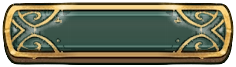
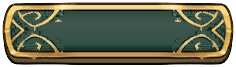
Workshop v36: button hover art cleaned (flat panel, no see-through pixels), parchment hover text without halo, no tap highlight, cache v36
Claude-Session: https://claude.ai/code/session_01DVG5f7VBQkdwappbx1RNPL

diff --git a/concepts/core/core.css b/concepts/core/core.css
@@ -294,7 +294,7 @@ body[data-theme=workshop] .hot.cut .wtag text{font-size:12px;fill:#3a2616}
 body[data-theme=workshop]{--kit-cream:#efe1bc}
 body[data-theme=workshop] .pf-frame{
   width:min(1120px,100%);height:min(800px,100%);
-  border:46px solid transparent;border-image:url(../ui/frame.png?v=34) 95 / 46px stretch;
+  border:46px solid transparent;border-image:url(../ui/frame.png?v=36) 95 / 46px stretch;
   border-radius:0;background:var(--kit-cream);background-clip:padding-box;
   box-shadow:none;filter:none;animation:pop .25s cubic-bezier(.2,.9,.3,1.2)}
 /* static shadow (a CSS filter on this big, scrolling element made every frame slow) */
@@ -304,44 +304,44 @@ body[data-theme=workshop] .pf-frame:before,body[data-theme=workshop] .pf-frame .
 body[data-theme=workshop] .pf-head{position:absolute;top:0;left:0;right:0;height:0;padding:0;display:block;z-index:5}
 body[data-theme=workshop] .pf-head .ttl{position:absolute;left:50%;top:-74px;transform:translateX(-50%);width:min(80%,640px);height:64px;
   display:flex;align-items:center;justify-content:center;text-align:center;box-sizing:border-box;padding:0 4px;
-  border:0 solid transparent;border-width:0 44px;border-image:url(../ui/plaque.png?v=34) 0 82 0 82 fill / 0 44px 0 44px stretch}
+  border:0 solid transparent;border-width:0 44px;border-image:url(../ui/plaque.png?v=36) 0 82 0 82 fill / 0 44px 0 44px stretch}
 body[data-theme=workshop] .pf-head small{display:none}
 body[data-theme=workshop] .pf-head h2{margin:0;color:#f6ead0;font:700 clamp(19px,2.3vw,26px)/1 var(--head);letter-spacing:.04em;text-shadow:0 2px 0 #1b110a,0 0 12px rgba(0,0,0,.5)}
 body[data-theme=workshop] .pf-head .pf-icon{display:none}
 body[data-theme=workshop] .pf-x{position:absolute;top:-40px;right:-14px;width:50px;height:50px;border:0;border-radius:0;padding:0;
-  background:url(../ui/close.png?v=34) center/contain no-repeat;font-size:0;color:transparent;filter:drop-shadow(0 3px 3px rgba(0,0,0,.5))}
-body[data-theme=workshop] .pf-x:hover,body[data-theme=workshop] .pf-x:focus-visible{background:url(../ui/close-hot.png?v=34) center/contain no-repeat;outline:none}
+  background:url(../ui/close.png?v=36) center/contain no-repeat;font-size:0;color:transparent;filter:drop-shadow(0 3px 3px rgba(0,0,0,.5))}
+body[data-theme=workshop] .pf-x:hover,body[data-theme=workshop] .pf-x:focus-visible{background:url(../ui/close-hot.png?v=36) center/contain no-repeat;outline:none}
 body[data-theme=workshop] .pf-body{padding:16px 24px 18px;margin-top:-2px}
 body[data-theme=workshop] .pf-foot{border-top:0;padding:20px 24px 6px;position:relative}
 body[data-theme=workshop] .pf-foot:before{content:"";position:absolute;left:24px;right:24px;top:4px;height:14px;
-  background:url(../ui/div-l.png?v=34) left center/calc(50% - 22px) 14px no-repeat,url(../ui/div-r.png?v=34) right center/calc(50% - 22px) 14px no-repeat,url(../ui/div-m.png?v=34) center/auto 14px no-repeat}
+  background:url(../ui/div-l.png?v=36) left center/calc(50% - 22px) 14px no-repeat,url(../ui/div-r.png?v=36) right center/calc(50% - 22px) 14px no-repeat,url(../ui/div-m.png?v=36) center/auto 14px no-repeat}
 /* items separated by the ornamental divider instead of tabs */
 body[data-theme=workshop] .pf-item+.pf-item{border-top:0;padding-top:50px;position:relative}
 body[data-theme=workshop] .pf-item+.pf-item:before{content:"";position:absolute;left:0;right:0;top:10px;height:26px;
-  background:url(../ui/div-l.png?v=34) left center/calc(50% - 40px) 26px no-repeat,url(../ui/div-r.png?v=34) right center/calc(50% - 40px) 26px no-repeat,url(../ui/div-m.png?v=34) center/auto 26px no-repeat}
+  background:url(../ui/div-l.png?v=36) left center/calc(50% - 40px) 26px no-repeat,url(../ui/div-r.png?v=36) right center/calc(50% - 40px) 26px no-repeat,url(../ui/div-m.png?v=36) center/auto 26px no-repeat}
 body[data-theme=workshop] .pf-ih{margin-bottom:6px}
 body[data-theme=workshop] .pf-it{color:#2a1a0e}
 /* badges, buttons */
-body[data-theme=workshop] .pf-badge{border:0;border-radius:0;background:none;color:#f6ead0;padding:5px 14px;border:7px solid transparent;border-image:url(../ui/btn.png?v=34) 26 30 fill / 9px 11px stretch;font-size:11px;line-height:1;text-shadow:0 1px 0 rgba(0,0,0,.5)}
-body[data-theme=workshop] .pf-badge.ghost{color:#2f6b57;text-shadow:none;border-image:url(../ui/chip.png?v=34) 22 30 fill / 8px 12px stretch}
+body[data-theme=workshop] .pf-badge{border:0;border-radius:0;background:none;color:#f6ead0;padding:5px 14px;border:7px solid transparent;border-image:url(../ui/btn.png?v=36) 26 30 fill / 9px 11px stretch;font-size:11px;line-height:1;text-shadow:0 1px 0 rgba(0,0,0,.5)}
+body[data-theme=workshop] .pf-badge.ghost{color:#2f6b57;text-shadow:none;border-image:url(../ui/chip.png?v=36) 22 30 fill / 8px 12px stretch}
 body[data-theme=workshop] .pf-badges{gap:6px 4px}
-body[data-theme=workshop] .pf-btn{background:none;border:10px solid transparent;border-image:url(../ui/btn.png?v=34) 26 30 fill / 13px 16px stretch;border-radius:0;color:#f6ead0!important;padding:3px 10px;text-shadow:0 1px 0 rgba(0,0,0,.55);filter:none}
-body[data-theme=workshop] .pf-btn:hover,body[data-theme=workshop] .pf-btn:focus-visible{border-image:url(../ui/btn-hot.png?v=34) 26 64 fill / 13px 32px stretch;filter:none;outline:none}
-body[data-theme=workshop] .pf-btn.ghost{border-image:url(../ui/chip.png?v=34) 22 30 fill / 11px 15px stretch;color:#2f6b57!important;text-shadow:none}
-body[data-theme=workshop] .pf-btn.ghost:hover{border-image:url(../ui/btn-hot.png?v=34) 26 64 fill / 13px 32px stretch;color:#f6ead0!important}
+body[data-theme=workshop] .pf-btn{background:none;border:10px solid transparent;border-image:url(../ui/btn.png?v=36) 26 30 fill / 13px 16px stretch;border-radius:0;color:#f6ead0!important;padding:3px 10px;text-shadow:0 1px 0 rgba(0,0,0,.55);filter:none}
+body[data-theme=workshop] .pf-btn:hover,body[data-theme=workshop] .pf-btn:focus-visible{border-image:url(../ui/btn-hot.png?v=36) 26 64 fill / 13px 32px stretch;filter:none;outline:none}
+body[data-theme=workshop] .pf-btn.ghost{border-image:url(../ui/chip.png?v=36) 22 30 fill / 11px 15px stretch;color:#2f6b57!important;text-shadow:none}
+body[data-theme=workshop] .pf-btn.ghost:hover{border-image:url(../ui/btn-hot.png?v=36) 26 64 fill / 13px 32px stretch;color:#f6ead0!important}
 /* lists */
 body[data-theme=workshop] .pf-did ul,body[data-theme=workshop] .pf-body ul.pf-ul{list-style:none;padding-left:4px}
 body[data-theme=workshop] .pf-did li,body[data-theme=workshop] .pf-ul li{position:relative;padding-left:22px}
-body[data-theme=workshop] .pf-did li:before,body[data-theme=workshop] .pf-ul li:before{content:"";position:absolute;left:2px;top:.35em;width:11px;height:14px;background:url(../ui/bullet.png?v=34) center/contain no-repeat}
+body[data-theme=workshop] .pf-did li:before,body[data-theme=workshop] .pf-ul li:before{content:"";position:absolute;left:2px;top:.35em;width:11px;height:14px;background:url(../ui/bullet.png?v=36) center/contain no-repeat}
 /* scrollbar (webkit); Firefox keeps the thin themed bar */
 body[data-theme=workshop] .pf-body{scrollbar-width:auto;scrollbar-color:auto}
 @supports not selector(::-webkit-scrollbar){body[data-theme=workshop] .pf-body{scrollbar-width:thin;scrollbar-color:#2f7a62 #3a2a1e}}
 body[data-theme=workshop] .pf-body::-webkit-scrollbar{width:20px}
-body[data-theme=workshop] .pf-body::-webkit-scrollbar-track{background:url(../ui/track.png?v=34) center top/20px 38px repeat-y;border-radius:0}
-body[data-theme=workshop] .pf-body::-webkit-scrollbar-thumb{border:0 solid transparent;border-width:16px 0;border-image:url(../ui/thumb.png?v=34) 40 0 fill / 16px 0 stretch;background:none;min-height:56px}
+body[data-theme=workshop] .pf-body::-webkit-scrollbar-track{background:url(../ui/track.png?v=36) center top/20px 38px repeat-y;border-radius:0}
+body[data-theme=workshop] .pf-body::-webkit-scrollbar-thumb{border:0 solid transparent;border-width:16px 0;border-image:url(../ui/thumb.png?v=36) 40 0 fill / 16px 0 stretch;background:none;min-height:56px}
 @media (max-width:760px){
-  body[data-theme=workshop] .pf-frame{width:100%;height:100%;border-width:26px;border-image:url(../ui/frame.png?v=34) 95 / 26px stretch;filter:none}
-  body[data-theme=workshop] .pf-head .ttl{top:-16px;height:44px;width:min(76%,360px);border-width:0 30px;border-image:url(../ui/plaque.png?v=34) 0 82 0 82 fill / 0 30px 0 30px stretch}
+  body[data-theme=workshop] .pf-frame{width:100%;height:100%;border-width:26px;border-image:url(../ui/frame.png?v=36) 95 / 26px stretch;filter:none}
+  body[data-theme=workshop] .pf-head .ttl{top:-16px;height:44px;width:min(76%,360px);border-width:0 30px;border-image:url(../ui/plaque.png?v=36) 0 82 0 82 fill / 0 30px 0 30px stretch}
   body[data-theme=workshop] .pf-head h2{font-size:18px}
   body[data-theme=workshop] .pf-x{top:-18px;right:-14px;width:42px;height:42px}
   body[data-theme=workshop] .pf-body{padding:14px 12px 14px}
@@ -380,8 +380,8 @@ body[data-theme=workshop] .pf-body::-webkit-scrollbar-thumb{border:0 solid trans
 .pf-x{color:#b3261e;border-color:rgba(190,45,35,.7);background:rgba(200,50,40,.12);font-weight:700}
 .pf-x:hover,.pf-x:focus-visible{background:#d9372b;border-color:#d9372b;color:#fff;outline:none}
 .pf-x:active{background:#a8231a;border-color:#a8231a}
-body[data-theme=workshop] .pf-x{background:url(../ui/close-red.png?v=34) center/contain no-repeat;color:transparent;border:0}
-body[data-theme=workshop] .pf-x:hover,body[data-theme=workshop] .pf-x:focus-visible{background:url(../ui/close-red-hot.png?v=34) center/contain no-repeat}
+body[data-theme=workshop] .pf-x{background:url(../ui/close-red.png?v=36) center/contain no-repeat;color:transparent;border:0}
+body[data-theme=workshop] .pf-x:hover,body[data-theme=workshop] .pf-x:focus-visible{background:url(../ui/close-red-hot.png?v=36) center/contain no-repeat}
 body[data-theme=workshop] .pf-x:active{transform:scale(.94)}
 /* click-to-load embeds */
 .pf-lazy{appearance:none;display:grid;place-items:center;border:0;padding:0;cursor:pointer;font:700 14px var(--head);color:#fff;background:#14161c center/cover no-repeat;position:relative}
@@ -397,9 +397,9 @@ body[data-theme=workshop] .pf-x:active{transform:scale(.94)}
 .pf-copy:hover,.pf-copy:focus-visible{border-color:var(--acc);color:var(--ink);outline:none}
 .pf-copy.ok{border-color:#2f8f5b;color:#2f8f5b}
 body[data-theme=workshop] .pf-tabs{padding:0 30px;border-bottom:0;margin-top:2px}
-body[data-theme=workshop] .pf-tab{color:#5a3b22;border-radius:0;border:7px solid transparent;border-image:url(../ui/chip.png?v=34) 22 30 fill / 8px 12px stretch;margin:0 4px 6px 0;padding:2px 19px;font-size:13px;box-shadow:none;background:none}
+body[data-theme=workshop] .pf-tab{color:#5a3b22;border-radius:0;border:7px solid transparent;border-image:url(../ui/chip.png?v=36) 22 30 fill / 8px 12px stretch;margin:0 4px 6px 0;padding:2px 19px;font-size:13px;box-shadow:none;background:none}
 body[data-theme=workshop] .pf-tab:hover{color:#2a1a0e}
-body[data-theme=workshop] .pf-tab.on{color:#f6ead0;border-image:url(../ui/btn.png?v=34) 26 30 fill / 9px 11px stretch;text-shadow:0 1px 0 #1b110a;box-shadow:none;background:none}
+body[data-theme=workshop] .pf-tab.on{color:#f6ead0;border-image:url(../ui/btn.png?v=36) 26 30 fill / 9px 11px stretch;text-shadow:0 1px 0 #1b110a;box-shadow:none;background:none}
 body[data-theme=workshop] .pf-tab:focus-visible{outline:2px solid #c8362b;outline-offset:1px}
 body[data-theme=workshop] .pf-copy{border-color:#9a7a4a;color:#5a3b22}
 body[data-theme=workshop] .pf-lazy span{background:rgba(31,21,12,.82);border-color:#c9a24f}
@@ -440,9 +440,9 @@ body[data-theme=workshop] .pf-badge:first-child{background:rgba(47,107,87,.14);b
 body[data-theme=workshop] .pf-badge.ghost{background:transparent;border:1px dashed #9a7a4a;border-image:none;color:#6b4a2b}
 body[data-theme=workshop] .pf-badges{gap:6px}
 body[data-theme=workshop] .pf-btn{cursor:pointer;padding:5px 22px;font-size:13px;letter-spacing:.07em;transition:filter .12s,transform .12s}
-body[data-theme=workshop] .pf-btn:hover,body[data-theme=workshop] .pf-btn:focus-visible{border-image:url(../ui/btn.png?v=34) 26 30 fill / 13px 16px stretch;filter:brightness(1.28) saturate(1.12) drop-shadow(0 0 5px rgba(255,210,122,.85));transform:translateY(-1px);outline:none}
+body[data-theme=workshop] .pf-btn:hover,body[data-theme=workshop] .pf-btn:focus-visible{border-image:url(../ui/btn.png?v=36) 26 30 fill / 13px 16px stretch;filter:brightness(1.28) saturate(1.12) drop-shadow(0 0 5px rgba(255,210,122,.85));transform:translateY(-1px);outline:none}
 body[data-theme=workshop] .pf-btn:active{filter:brightness(.92);transform:translateY(1px)}
-body[data-theme=workshop] .pf-btn.ghost:hover,body[data-theme=workshop] .pf-btn.ghost:focus-visible{border-image:url(../ui/chip.png?v=34) 22 30 fill / 11px 15px stretch;color:#1b5a46!important;filter:brightness(1.06) saturate(1.25) drop-shadow(0 0 5px rgba(255,210,122,.9))}
+body[data-theme=workshop] .pf-btn.ghost:hover,body[data-theme=workshop] .pf-btn.ghost:focus-visible{border-image:url(../ui/chip.png?v=36) 22 30 fill / 11px 15px stretch;color:#1b5a46!important;filter:brightness(1.06) saturate(1.25) drop-shadow(0 0 5px rgba(255,210,122,.9))}
 /* tabs */
 .pf-tab{transition:background .15s,color .15s,transform .12s,filter .12s}
 .pf-tab:not(.on):hover{background:rgba(128,128,128,.18);color:var(--ink);box-shadow:inset 0 -3px 0 var(--acc)}
@@ -456,9 +456,9 @@ body[data-theme=workshop] .pf-tab:active{transform:translateY(1px);filter:bright
 .pf-copy:hover,.pf-copy:focus-visible{background:var(--acc);border-color:var(--acc);color:var(--btn-ink);outline:none}
 .pf-copy:active{transform:translateY(1px)}
 .pf-copy.ok{background:#2f8f5b;border-color:#2f8f5b;color:#fff}
-body[data-theme=workshop] .pf-copy{border:7px solid transparent;border-image:url(../ui/chip.png?v=34) 22 30 fill / 8px 12px stretch;background:none;color:#5a3b22;padding:1px 16px 1px 15px;font:700 12px var(--body,system-ui);cursor:pointer;transition:filter .12s,transform .12s,color .12s}
+body[data-theme=workshop] .pf-copy{border:7px solid transparent;border-image:url(../ui/chip.png?v=36) 22 30 fill / 8px 12px stretch;background:none;color:#5a3b22;padding:1px 16px 1px 15px;font:700 12px var(--body,system-ui);cursor:pointer;transition:filter .12s,transform .12s,color .12s}
 body[data-theme=workshop] .pf-copy:hover,body[data-theme=workshop] .pf-copy:focus-visible{background:none;color:#1b5a46;filter:brightness(1.06) saturate(1.25) drop-shadow(0 0 4px rgba(255,210,122,.9));transform:translateY(-1px)}
-body[data-theme=workshop] .pf-copy.ok{background:none;color:#1f6b45;border-image:url(../ui/chip.png?v=34) 22 30 fill / 8px 12px stretch;filter:saturate(1.3)}
+body[data-theme=workshop] .pf-copy.ok{background:none;color:#1f6b45;border-image:url(../ui/chip.png?v=36) 22 30 fill / 8px 12px stretch;filter:saturate(1.3)}
 .pf-x{cursor:pointer}
 
 /* v17 */
@@ -469,7 +469,7 @@ body[data-theme=workshop] .pf-copy.ok{background:none;color:#1f6b45;border-image
 /* v17: Gemini's gold hover frame is back; no filters (they drew a box around the button); label gets an outline so it stays readable over the ornaments */
 body[data-theme=workshop] .pf-btn:hover,body[data-theme=workshop] .pf-btn:focus-visible,
 body[data-theme=workshop] .pf-btn.ghost:hover,body[data-theme=workshop] .pf-btn.ghost:focus-visible{
- border-image:url(../ui/btn-hot.png?v=34) 26 64 fill / 13px 32px stretch;filter:none;outline:none;box-shadow:none;
+ border-image:url(../ui/btn-hot.png?v=36) 26 64 fill / 13px 32px stretch;filter:none;outline:none;box-shadow:none;
  color:#fff7e0!important;text-shadow:none;-webkit-text-stroke:3.2px #10291f;paint-order:stroke fill;transform:translateY(-1px)}
 body[data-theme=workshop] .pf-btn:active,body[data-theme=workshop] .pf-btn.ghost:active{filter:none;transform:translateY(1px)}
 body[data-theme=workshop] .pf-btn{transition:transform .12s}
@@ -482,12 +482,12 @@ body[data-theme=workshop] .pf-btn{transition:transform .12s}
 body[data-theme=workshop] .pf-tab:not(.on):hover,body[data-theme=workshop] .pf-tab:not(.on):focus-visible,
 body[data-theme=workshop] .pf-btn.ghost:hover,body[data-theme=workshop] .pf-btn.ghost:focus-visible,
 body[data-theme=workshop] .pf-copy:hover,body[data-theme=workshop] .pf-copy:focus-visible{
- border-image:url(../ui/chip-hot.png?v=34) 57 140 fill / 11px 27px stretch;filter:none;box-shadow:none;outline:none;
- color:#2a1a0e!important;text-shadow:none;-webkit-text-stroke:3px #f6ead0;paint-order:stroke fill;transform:translateY(-1px)}
+ border-image:url(../ui/chip-hot.png?v=36) 57 140 fill / 11px 27px stretch;filter:none;box-shadow:none;outline:none;
+ color:#2a1a0e!important;text-shadow:none;-webkit-text-stroke:0;transform:translateY(-1px)}
 body[data-theme=workshop] .pf-tab:not(.on):hover,body[data-theme=workshop] .pf-tab:not(.on):focus-visible{border-image-width:10px 25px}
 body[data-theme=workshop] .pf-copy:hover,body[data-theme=workshop] .pf-copy:focus-visible{border-image-width:9px 22px}
 body[data-theme=workshop] .pf-tab.on:hover,body[data-theme=workshop] .pf-tab.on:focus-visible{
- border-image:url(../ui/btn-hot.png?v=34) 26 64 fill / 10px 25px stretch;filter:none;color:#fff7e0;-webkit-text-stroke:3px #10291f;paint-order:stroke fill;text-shadow:none;transform:translateY(-1px)}
+ border-image:url(../ui/btn-hot.png?v=36) 26 64 fill / 10px 25px stretch;filter:none;color:#fff7e0;-webkit-text-stroke:3px #10291f;paint-order:stroke fill;text-shadow:none;transform:translateY(-1px)}
 body[data-theme=workshop] .pf-tab:active,body[data-theme=workshop] .pf-copy:active{filter:none;transform:translateY(1px)}
 body[data-theme=workshop] .pf-copy.ok:hover{color:#1f6b45!important}
 
@@ -528,8 +528,8 @@ body[data-theme=workshop] .pf-tab:not(.on):hover,body[data-theme=workshop] .pf-t
 body[data-theme=workshop] .pf-copy:hover,body[data-theme=workshop] .pf-copy:focus-visible{border-image-width:10.9px 26.7px}
 @media (max-width:760px){
  body[data-theme=workshop] .pf-tab{height:28px;padding:0 9px}
- body[data-theme=workshop] .pf-tab:not(.on):hover,body[data-theme=workshop] .pf-tab.on:hover{border-image-width:8px 12px;border-image-slice:26 30 fill;border-image-source:url(../ui/chip.png?v=34)}
- body[data-theme=workshop] .pf-tab.on:hover{border-image-source:url(../ui/btn.png?v=34)}
+ body[data-theme=workshop] .pf-tab:not(.on):hover,body[data-theme=workshop] .pf-tab.on:hover{border-image-width:8px 12px;border-image-slice:26 30 fill;border-image-source:url(../ui/chip.png?v=36)}
+ body[data-theme=workshop] .pf-tab.on:hover{border-image-source:url(../ui/btn.png?v=36)}
 }
 
 /* v24: all Fan GDD cards share one height - text grows, the buttons sit on the bottom edge */
@@ -562,3 +562,6 @@ body[data-theme=workshop] .pf-copy{padding:0 32px}
 /* v34: the tab row scrolls sideways (overflow-x), which also clips vertically - give it room above/below so the hover lift and glow of a tab are never cut off */
 body[data-theme=workshop] .pf-tabs{padding-top:9px;margin-top:-7px}
 @media (max-width:760px){body[data-theme=workshop] .pf-tabs{padding-top:7px;margin-top:31px}}
+
+/* v35: no browser tap/click highlight box on buttons and links */
+body[data-theme=workshop] button,body[data-theme=workshop] a,body[data-theme=workshop] [role=button]{-webkit-tap-highlight-color:transparent}

diff --git a/concepts/scenes/workshop.js b/concepts/scenes/workshop.js
@@ -29,11 +29,11 @@ PF.init({
       '<radialGradient id="vig" cx=".5" cy=".5" r=".78"><stop offset=".62" stop-color="#0a0604" stop-opacity="0"/><stop offset="1" stop-color="#0a0604" stop-opacity=".5"/></radialGradient>'
     );
     function grp(parent,attrs){return el('g',attrs||{},parent)}
-    function pic(parent,file,box,cls){var i=el('image',{x:box.x,y:box.y,width:box.w,height:box.h,'pointer-events':'none'},parent);if(cls)i.setAttribute('class',cls);i.setAttribute('href','art3/'+file+'.webp?v=34');return i}
+    function pic(parent,file,box,cls){var i=el('image',{x:box.x,y:box.y,width:box.w,height:box.h,'pointer-events':'none'},parent);if(cls)i.setAttribute('class',cls);i.setAttribute('href','art3/'+file+'.webp?v=36');return i}
 
     /* 1 - the room (transparent frame interior: the highlight reel plays behind it) */
     var bg=el('image',{x:OX,y:0,width:1024*K,height:900,preserveAspectRatio:'none','pointer-events':'none'},svg);
-    bg.setAttribute('href','art3/plate.webp?v=34');
+    bg.setAttribute('href','art3/plate.webp?v=36');
 
     /* 2 - cut-out objects as clickable layers */
     function object(key,name,hit,label){

diff --git a/concepts/workshop.html b/concepts/workshop.html
@@ -7,13 +7,13 @@
 <meta name="description" content="Concept: a hand-drawn wizard's workshop where the highlight reel plays inside a runestone frame">
 <link rel="preconnect" href="https://fonts.googleapis.com">
 <link href="https://fonts.googleapis.com/css2?family=Kalam:wght@700&display=swap" rel="stylesheet">
-<link rel="stylesheet" href="core/core.css?v=34">
+<link rel="stylesheet" href="core/core.css?v=36">
 </head>
 <body>
 <div id="pf"></div>
 <noscript><p style="padding:70px 20px;color:#eee">This landing page needs JavaScript. The classic site is at <a href="../index.html">index.html</a>.</p></noscript>
-<script src="core/data.js?v=34"></script>
-<script src="core/core.js?v=34"></script>
-<script src="scenes/workshop.js?v=34"></script>
+<script src="core/data.js?v=36"></script>
+<script src="core/core.js?v=36"></script>
+<script src="scenes/workshop.js?v=36"></script>
 </body>
 </html>

diff --git a/concepts/wizard-art.html b/concepts/wizard-art.html
@@ -5,13 +5,13 @@
 <meta name="viewport" content="width=device-width, initial-scale=1">
 <title>Concept B - The Wizard's Table (painted) - Yoav Stadler</title>
 <meta name="description" content="Concept: a wizard's workbench with a scrying crystal playing the highlight reel">
-<link rel="stylesheet" href="core/core.css?v=34">
+<link rel="stylesheet" href="core/core.css?v=36">
 </head>
 <body>
 <div id="pf"></div>
 <noscript><p style="padding:70px 20px;color:#eee">This landing page needs JavaScript. The classic site is at <a href="../index.html">index.html</a>.</p></noscript>
-<script src="core/data.js?v=34"></script>
-<script src="core/core.js?v=34"></script>
-<script src="scenes/wizard-art.js?v=34"></script>
+<script src="core/data.js?v=36"></script>
+<script src="core/core.js?v=36"></script>
+<script src="scenes/wizard-art.js?v=36"></script>
 </body>
 </html>

diff --git a/concepts/crossroads.html b/concepts/crossroads.html
@@ -5,13 +5,13 @@
 <meta name="viewport" content="width=device-width, initial-scale=1">
 <title>Concept A - The Crossroads - Yoav Stadler</title>
 <meta name="description" content="Concept: a paladin at a fork in the road, the highlight reel framed in a ruined gate">
-<link rel="stylesheet" href="core/core.css?v=34">
+<link rel="stylesheet" href="core/core.css?v=36">
 </head>
 <body>
 <div id="pf"></div>
 <noscript><p style="padding:70px 20px;color:#eee">This landing page needs JavaScript. The classic site is at <a href="../index.html">index.html</a>.</p></noscript>
-<script src="core/data.js?v=34"></script>
-<script src="core/core.js?v=34"></script>
-<script src="scenes/crossroads.js?v=34"></script>
+<script src="core/data.js?v=36"></script>
+<script src="core/core.js?v=36"></script>
+<script src="scenes/crossroads.js?v=36"></script>
 </body>
 </html>

diff --git a/concepts/wizard.html b/concepts/wizard.html
@@ -5,13 +5,13 @@
 <meta name="viewport" content="width=device-width, initial-scale=1">
 <title>Concept B - The Wizard's Table - Yoav Stadler</title>
 <meta name="description" content="Concept: a wizard's workbench with a scrying crystal playing the highlight reel">
-<link rel="stylesheet" href="core/core.css?v=34">
+<link rel="stylesheet" href="core/core.css?v=36">
 </head>
 <body>
 <div id="pf"></div>
 <noscript><p style="padding:70px 20px;color:#eee">This landing page needs JavaScript. The classic site is at <a href="../index.html">index.html</a>.</p></noscript>
-<script src="core/data.js?v=34"></script>
-<script src="core/core.js?v=34"></script>
-<script src="scenes/wizard.js?v=34"></script>
+<script src="core/data.js?v=36"></script>
+<script src="core/core.js?v=36"></script>
+<script src="scenes/wizard.js?v=36"></script>
 </body>
 </html>

diff --git a/concepts/dungeon.html b/concepts/dungeon.html
@@ -5,13 +5,13 @@
 <meta name="viewport" content="width=device-width, initial-scale=1">
 <title>Concept C - The Dungeon - Yoav Stadler</title>
 <meta name="description" content="Concept: a torch-lit dungeon chamber with the highlight reel in a magic mirror">
-<link rel="stylesheet" href="core/core.css?v=34">
+<link rel="stylesheet" href="core/core.css?v=36">
 </head>
 <body>
 <div id="pf"></div>
 <noscript><p style="padding:70px 20px;color:#eee">This landing page needs JavaScript. The classic site is at <a href="../index.html">index.html</a>.</p></noscript>
-<script src="core/data.js?v=34"></script>
-<script src="core/core.js?v=34"></script>
-<script src="scenes/dungeon.js?v=34"></script>
+<script src="core/data.js?v=36"></script>
+<script src="core/core.js?v=36"></script>
+<script src="scenes/dungeon.js?v=36"></script>
 </body>
 </html>

diff --git a/concepts/guild.html b/concepts/guild.html
@@ -5,13 +5,13 @@
 <meta name="viewport" content="width=device-width, initial-scale=1">
 <title>Concept D - The Guild Hall - Yoav Stadler</title>
 <meta name="description" content="Concept: a guild hall quest board with the highlight reel on the great banner">
-<link rel="stylesheet" href="core/core.css?v=34">
+<link rel="stylesheet" href="core/core.css?v=36">
 </head>
 <body>
 <div id="pf"></div>
 <noscript><p style="padding:70px 20px;color:#eee">This landing page needs JavaScript. The classic site is at <a href="../index.html">index.html</a>.</p></noscript>
-<script src="core/data.js?v=34"></script>
-<script src="core/core.js?v=34"></script>
-<script src="scenes/guild.js?v=34"></script>
+<script src="core/data.js?v=36"></script>
+<script src="core/core.js?v=36"></script>
+<script src="scenes/guild.js?v=36"></script>
 </body>
 </html>
